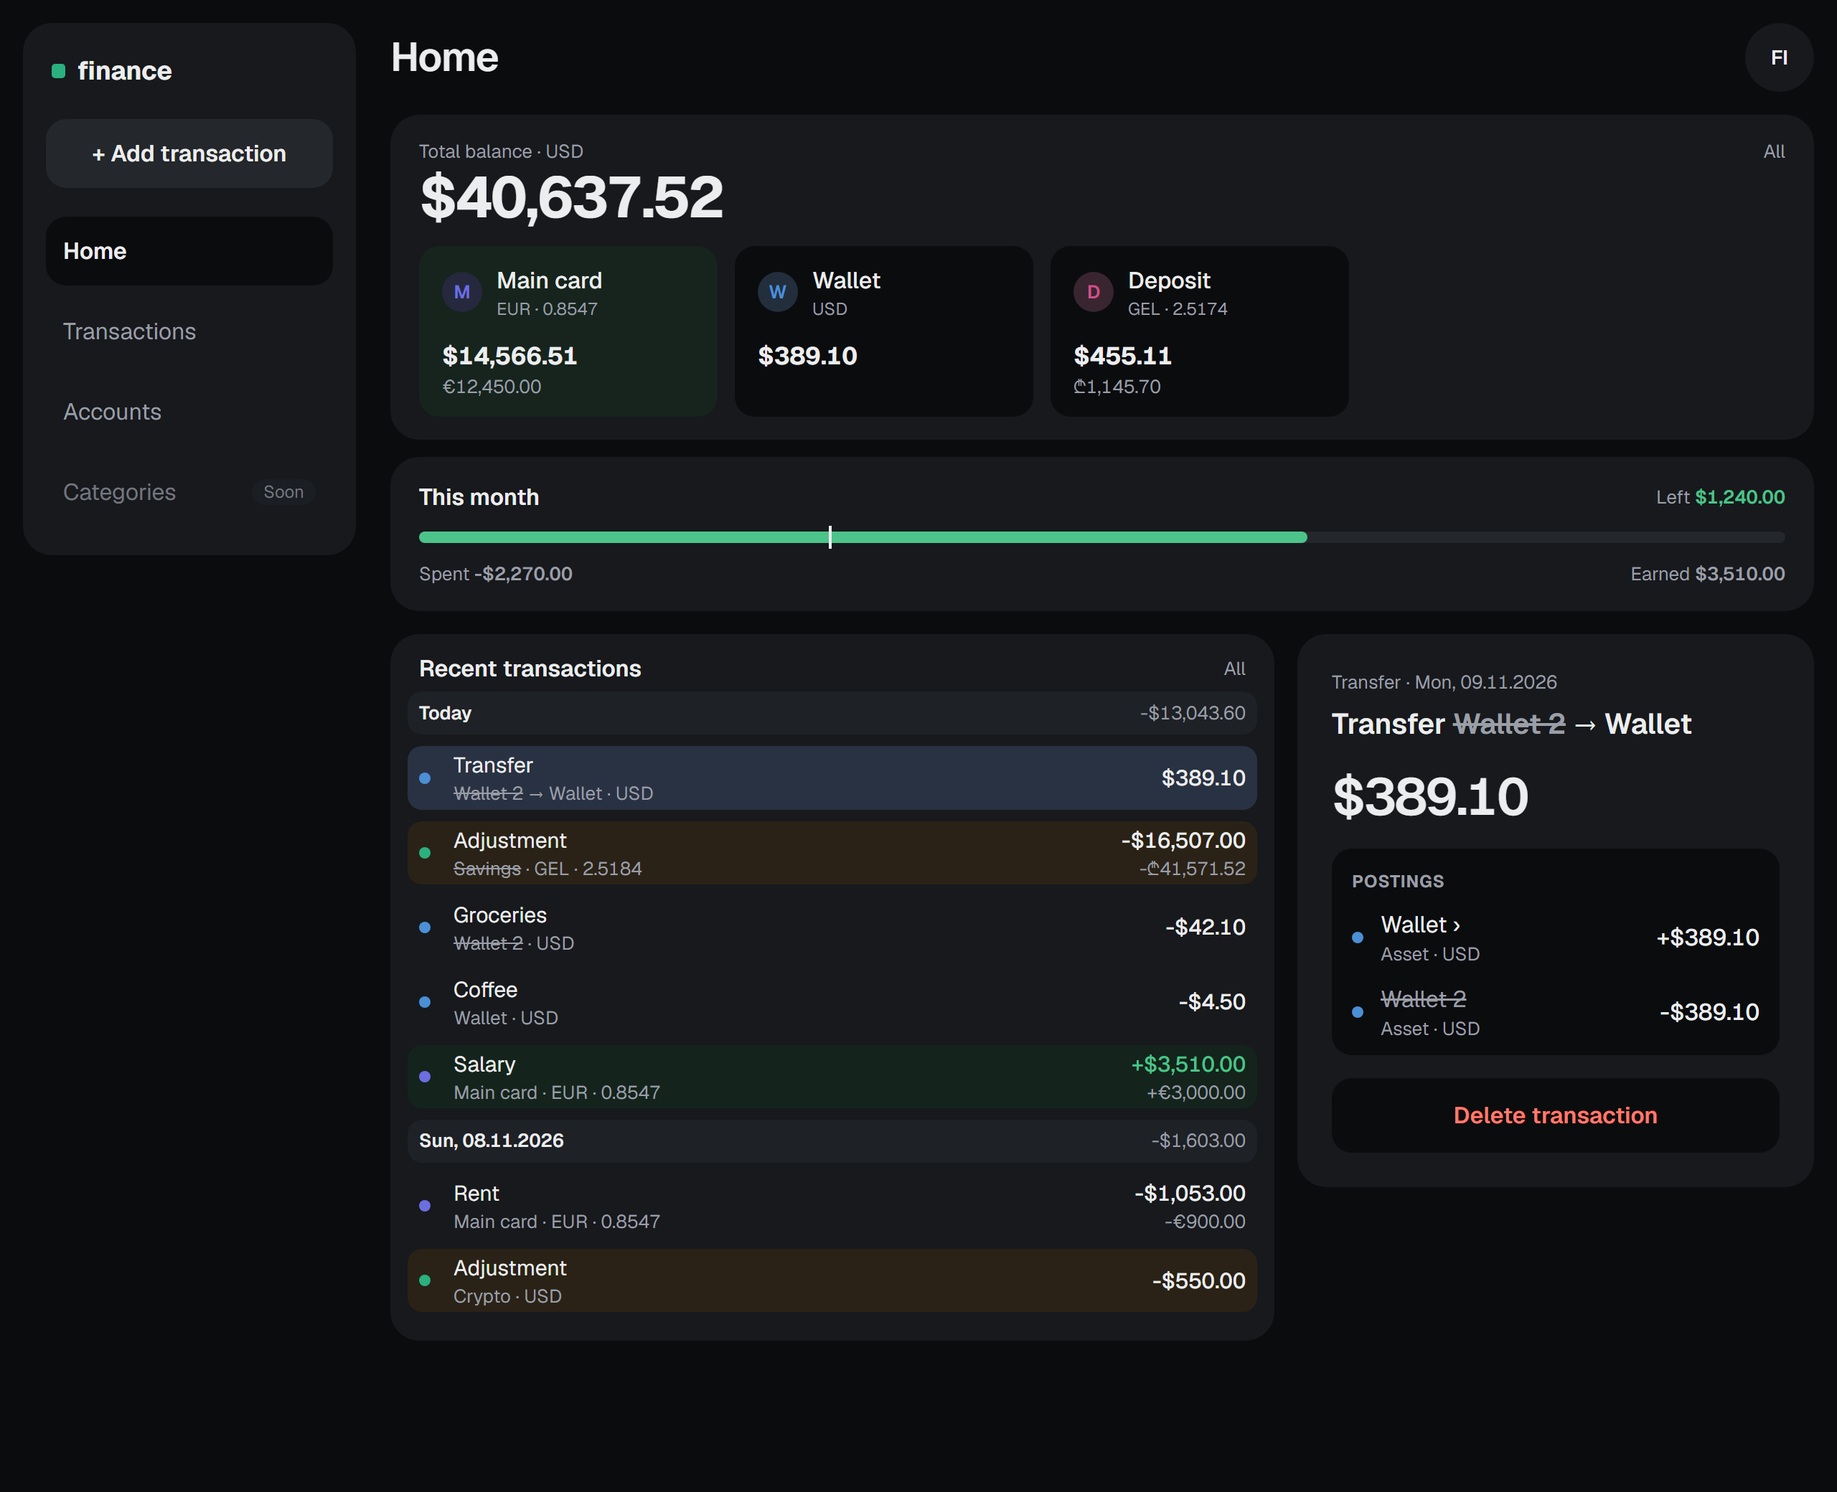
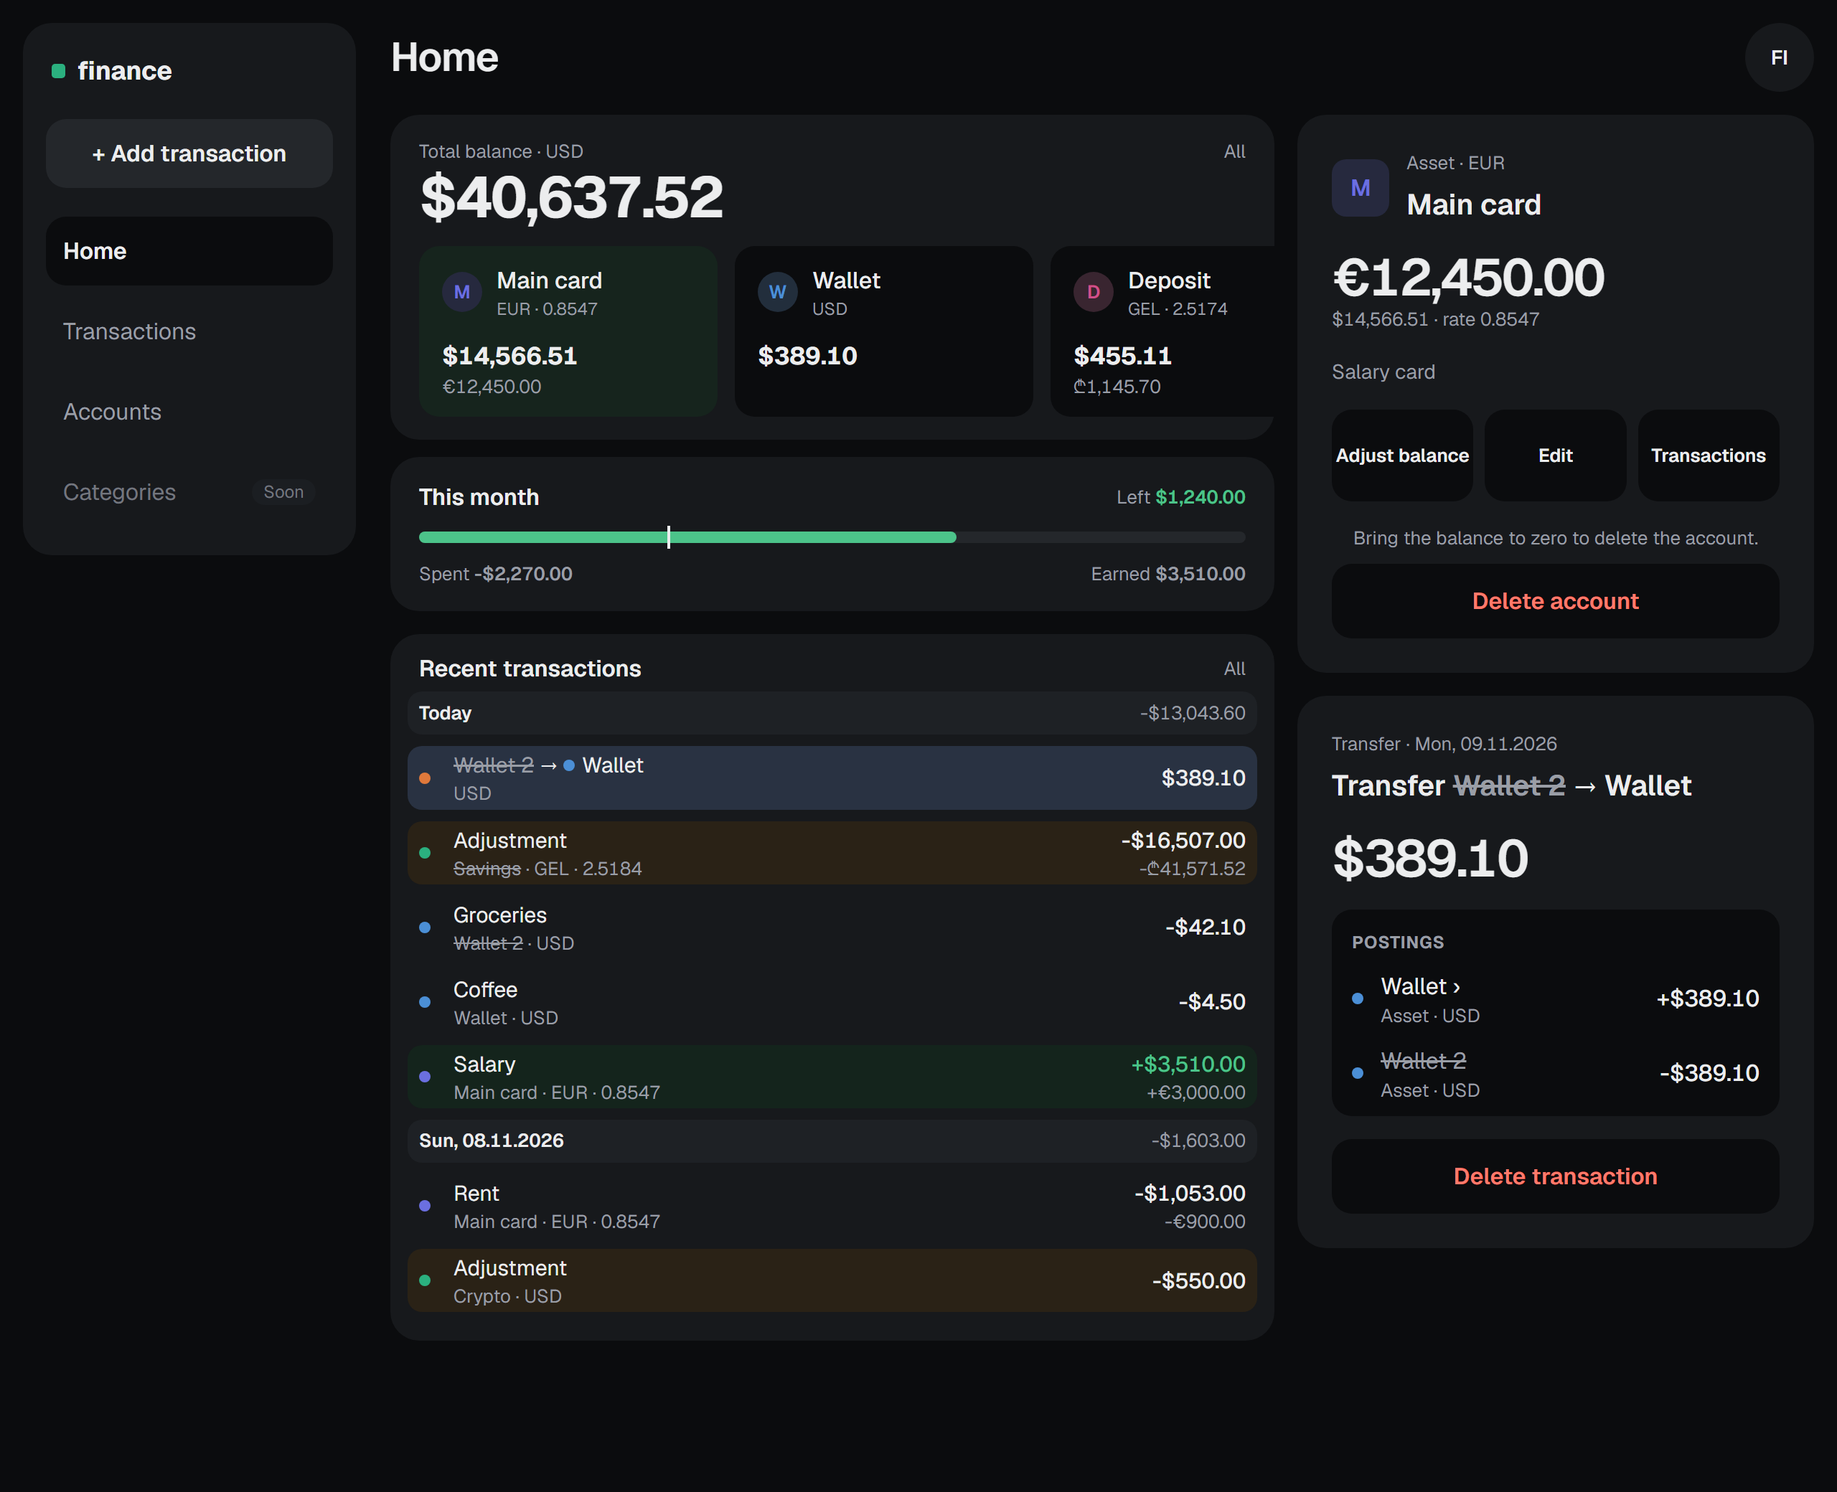
Mockups of #370: the free-width desktop, the details column and the transfer rows
Claude-Session: https://claude.ai/code/session_01JqeZG5NEyzrTuRPRVE2pd3

diff --git a/370/design/screens.html b/370/design/screens.html
@@ -160,6 +160,9 @@ section > p.lead { margin: var(--space-1) 0 var(--space-4); color: var(--color-m
 .row.selected::before { background: color-mix(in oklab, var(--tint, var(--color-panel)), var(--color-ink) 10%); }
 .row.selected:not(.income):not(.transfer):not(.adjustment)::before { background: color-mix(in oklab, var(--color-panel), var(--color-ink) 10%); }
 .dot { width: var(--size-dot); height: var(--size-dot); border-radius: var(--radius-full); background: currentColor; align-self: center; }
+.dotStack { display: flex; flex-direction: column; gap: 0.1875rem; align-self: center; }
+.inlineDot { display: inline-block; width: var(--size-dot); height: var(--size-dot); margin-right: 0.3125rem; border-radius: var(--radius-full); background: currentColor; vertical-align: 0.0625rem; }
+.ringDot { box-shadow: 0 0 0 0.125rem var(--color-transfer-row), 0 0 0 0.25rem var(--ring); }
 .text { min-width: 0; display: flex; flex-direction: column; }
 .title, .sub { overflow: hidden; text-overflow: ellipsis; white-space: nowrap; }
 .sub { font-size: var(--font-size-2xs); color: var(--color-muted); line-height: 1.35; }
@@ -254,7 +257,10 @@ section > p.lead { margin: var(--space-1) 0 var(--space-4); color: var(--color-m
 .desc { margin: 0; font-size: var(--font-size-md); color: var(--color-muted); }
 .tiles { display: grid; grid-template-columns: repeat(3, 1fr); gap: var(--space-2); }
 .tiles span { min-height: 4rem; border-radius: var(--radius-action); background: var(--color-ground); display: grid; place-items: center; font-size: var(--font-size-sm); font-weight: 600; text-align: center; }
-.hint { font-size: var(--font-size-sm); color: var(--color-muted); text-align: center; margin-top: calc(var(--space-2) * -1); }
+.hint { font-size: var(--font-size-sm); color: var(--color-muted); text-align: center; margin-top: auto; margin-bottom: calc(var(--space-2) * -1); }
+.details > .del:last-child { margin-top: auto; }
+.details > .hint + .del { margin-top: 0; }
+.detailsRow { align-items: stretch; }
 .homeTop { display: flex; flex-direction: column; gap: var(--space-3); margin-top: var(--space-4); }
 .homeTop .panel { padding: var(--space-4) var(--space-5); }
 .phone .total { font-size: 2rem; }
@@ -276,6 +282,16 @@ section > p.lead { margin: var(--space-1) 0 var(--space-4); color: var(--color-m
 .bar em { position: absolute; left: 30%; top: -0.25rem; bottom: -0.25rem; width: 2px; background: var(--color-ink); }
 .desktop .panel.recent { padding-top: var(--space-3); }
 .panelTitle { font-size: var(--font-size-lg); }
+.wideDesktop { width: 1600px; height: 920px; }
+.main.centered > * { width: 100%; max-width: 75rem; margin-inline: auto; }
+.detailsRow { flex: none; display: flex; gap: var(--space-4); align-self: flex-start; }
+.detailsRow .details { flex: 0 0 var(--size-details); }
+.detailsColumn { flex: 0 0 var(--size-details); display: flex; flex-direction: column; gap: var(--space-4); }
+.detailsColumn .details { flex: none; }
+.homeColumns { display: flex; gap: var(--space-4); align-items: flex-start; margin-top: var(--space-4); }
+.homeMain { flex: 1 1 auto; min-width: 0; display: flex; flex-direction: column; }
+.homeMain .homeTop { margin-top: 0; }
+.aHead .close { margin-left: auto; align-self: flex-start; }
 .notes { margin: 0; padding-left: var(--space-5); color: var(--color-muted); font-size: var(--font-size-sm); display: flex; flex-direction: column; gap: var(--space-1); max-width: 52rem; }
 .notes b { color: var(--color-ink); font-weight: 600; }
 </style>
@@ -301,19 +317,25 @@ section > p.lead { margin: var(--space-1) 0 var(--space-4); color: var(--color-m
 
   <section>
     <h2>2 · Transactions on desktop (1280 px)</h2>
-    <p class="lead">Agreed: 2A, with the details always open. Rows as on the phone, at desktop sizes.</p>
+    <p class="lead">Agreed: the list takes the free width and the details always show on the right, the account opened from a posting under the transaction.</p>
     <div class="boards" id="txDesktopBoards"></div>
   </section>
 
   <section>
     <h2>3 · Accounts on desktop (1280 px)</h2>
-    <p class="lead">Agreed: 3A, with the details always open. Currency and rate move under the name, as on the phone; the Rate column goes and the two balances stack (USD over the account's own).</p>
+    <p class="lead">Agreed: the groups take the free width, with the details always open. Currency and rate move under the name, as on the phone; the Rate column goes and the two balances stack (USD over the account's own).</p>
     <div class="boards" id="accDesktopBoards"></div>
   </section>
 
   <section>
+    <h2>2B · Transactions in a wide window (1600 px)</h2>
+    <p class="lead">Agreed: the details in a row of equal height when the list keeps at least 34rem.</p>
+    <div class="boards" id="rowBoards"></div>
+  </section>
+
+  <section>
     <h2>4 · Home</h2>
-    <p class="lead">Agreed: 4B. Recent shares the rows of the Transactions list; on desktop it keeps a reading width with the top transaction's details beside it.</p>
+    <p class="lead">Agreed: Recent shares the rows of the Transactions list; on desktop the column on the right shows the chosen account, or the first one of the strip, above the chosen or top transaction; neither closes on desktop.</p>
     <div class="boards" id="homeBoards"></div>
   </section>
 
@@ -340,7 +362,7 @@ section > p.lead { margin: var(--space-1) 0 var(--space-4); color: var(--color-m
 
   const days = [
     { label: 'Today', total: -13043.60, rows: [
-      { type: 'transfer', title: 'Transfer', accounts: [{ name: 'Wallet 2', deleted: true }, { name: 'Wallet' }], color: COLORS.blue, currency: 'USD', orig: 389.10, base: 389.10, sign: 'auto', location: null, comment: null, selected: true },
+      { type: 'transfer', title: 'Transfer', accounts: [{ name: 'Wallet 2', deleted: true, color: COLORS.orange }, { name: 'Wallet', color: COLORS.blue }], color: COLORS.blue, currency: 'USD', orig: 389.10, base: 389.10, sign: 'auto', location: null, comment: null, selected: true },
       { type: 'adjustment', title: 'Adjustment', accounts: [{ name: 'Savings', deleted: true }], color: COLORS.green, currency: 'GEL', rate: 2.5184, orig: -41571.52, base: -16507.00, location: null, comment: 'Bank statement' },
       { type: 'expense', title: 'Groceries', accounts: [{ name: 'Wallet 2', deleted: true }], color: COLORS.blue, currency: 'USD', orig: -42.10, base: -42.10, location: 'Spar', comment: null },
       { type: 'expense', title: 'Coffee', accounts: [{ name: 'Wallet' }], color: COLORS.blue, currency: 'USD', orig: -4.50, base: -4.50, location: 'Coffee Lab', comment: 'With Anna' },
@@ -354,16 +376,32 @@ section > p.lead { margin: var(--space-1) 0 var(--space-4); color: var(--color-m
 
   const accountsText = (row) => row.accounts.map(name).join(' → ');
   const isForeign = (row) => row.currency !== BASE;
-  const subLine = (row) => [accountsText(row), row.currency, isForeign(row) ? rate(row.rate) : null].filter(Boolean).join(' · ');
+  const isTransfer = (row) => row.type === 'transfer';
+  const subLine = (row) => [isTransfer(row) ? null : accountsText(row), row.currency, isForeign(row) ? rate(row.rate) : null].filter(Boolean).join(' · ');
+  const titleWithDots = (row) => row.accounts.map((account) => `<span class="inlineDot" style="color:${account.color}"></span>${name(account)}`).join(' → ');
+  const stackedDots = (row) => `<span class="dotStack">${row.accounts.map((account) => `<span class="dot" style="color:${account.color}"></span>`).join('')}</span>`;
+  const dotModes = {
+    stacked: (row) => stackedDots(row),
+    inTitle: () => '<span></span>',
+    fromInColumn: (row) => `<span class="dot" style="color:${row.accounts[0].color}"></span>`,
+    split: (row) => `<span class="dot" style="background:linear-gradient(90deg, ${row.accounts[0].color} 50%, ${row.accounts[1].color} 50%)"></span>`,
+    ring: (row) => `<span class="dot ringDot" style="color:${row.accounts[1].color};--ring:${row.accounts[0].color}"></span>`,
+  };
+  let dotMode = 'fromInColumn';
+  const titleWithToDot = (row) => `${name(row.accounts[0])} → <span class="inlineDot" style="color:${row.accounts[1].color}"></span>${name(row.accounts[1])}`;
+  const titleOf = (row) => !isTransfer(row) ? row.title
+    : dotMode === 'inTitle' ? titleWithDots(row)
+    : dotMode === 'fromInColumn' ? titleWithToDot(row)
+    : accountsText(row);
   const baseAmount = (row) => `<span class="amount${row.type === 'income' ? ' in' : ''}">${money(row.base, BASE, row.sign)}</span>`;
   const origAmount = (row) => isForeign(row) ? `<span class="orig">${money(row.orig, row.currency, row.sign)}</span>` : '';
   const rowClass = (row) => `row ${row.type}${row.selected ? ' selected' : ''}`;
-  const dot = (row) => `<span class="dot" style="color:${row.color}"></span>`;
+  const dot = (row) => isTransfer(row) ? dotModes[dotMode](row) : `<span class="dot" style="color:${row.color}"></span>`;
   const text = (title, sub) => `<span class="text"><span class="title">${title}</span><span class="sub">${sub}</span></span>`;
   const dayHead = (day) => `<div class="dayHead"><b>${day.label}</b><span>${money(day.total, BASE)}</span></div>`;
 
   const rowRenderers = {
-    stacked: (row) => `<div class="${rowClass(row)}">${dot(row)}${text(row.title, subLine(row))}<span class="amounts">${baseAmount(row)}${origAmount(row)}</span></div>`,
+    stacked: (row) => `<div class="${rowClass(row)}">${dot(row)}${text(titleOf(row), subLine(row))}<span class="amounts">${baseAmount(row)}${origAmount(row)}</span></div>`,
   };
 
   const txList = ({ listClass, header, render }) =>
@@ -407,8 +445,8 @@ section > p.lead { margin: var(--space-1) 0 var(--space-4); color: var(--color-m
       </div>
     </div>`;
 
-  const variant = ({ id, name, note, board, wide }) =>
-    `<div class="variant${wide ? ' wide' : ''}" id="${id}"><div class="variantHead"><b>${name}</b><span>${note}</span></div><div class="frame" data-board-width="${wide ? 1280 : 390}">${board}</div></div>`;
+  const variant = ({ id, name, note, board, wide, boardWidth }) =>
+    `<div class="variant${wide ? ' wide' : ''}" id="${id}"><div class="variantHead"><b>${name}</b><span>${note}</span></div><div class="frame" data-board-width="${boardWidth ?? (wide ? 1280 : 390)}">${board}</div></div>`;
 
   document.getElementById('phoneBoards').innerHTML = [
     variant({ id: 'transactions-phone', name: '1A · Under the USD amount', note: 'Right side: the USD amount, the account\'s amount under it. One column of amounts, no column header.',
@@ -416,11 +454,6 @@ section > p.lead { margin: var(--space-1) 0 var(--space-4); color: var(--color-m
   ].join('');
 
   const txToolbar = chipsHtml;
-  document.getElementById('txDesktopBoards').innerHTML = [
-    variant({ id: 'transactions-desktop', wide: true, name: '2A · Narrow list, details always open', note: 'The list keeps a reading width (42rem) on the left; the details always show beside it. With no transaction chosen, the top one opens; desktop drops the × since there is nothing to close to.',
-      board: desktopBoard({ active: 'Transactions', title: 'Transactions', count: '-$14,646.60', toolbar: txToolbar,
-        content: `<div class="panel narrow">${txList({ listClass: 'stack', render: rowRenderers.stacked })}</div>${transactionDetails}` }) }),
-  ].join('');
 
   const RATES = { USD: 1, EUR: 0.8547, GEL: 2.5174 };
   const groups = [
@@ -458,15 +491,10 @@ section > p.lead { margin: var(--space-1) 0 var(--space-4); color: var(--color-m
       <div><div class="big">${money(mainCard.balance, 'EUR', 'auto')}</div><div class="meta">${money(inBase(mainCard), BASE, 'auto')} · rate ${rate(RATES.EUR)}</div></div>
       <p class="desc">Salary card</p>
       <div class="tiles"><span>Adjust balance</span><span>Edit</span><span>Transactions</span></div>
-      <div class="del">Delete account</div>
       <div class="hint">Bring the balance to zero to delete the account.</div>
+      <div class="del">Delete account</div>
     </aside>`;
 
-  document.getElementById('accDesktopBoards').innerHTML = [
-    variant({ id: 'accounts-desktop', wide: true, name: '3A · Narrow list, details always open', note: 'Rows as on the phone. The account details always show beside the list; with no account chosen, the top one opens.',
-      board: desktopBoard({ active: 'Accounts', title: 'Accounts', count: '9', toolbar: accToolbar,
-        content: `<div class="panel narrow">${accList({ listClass: 'stack', header: '<div class="colHead"><span>Account</span><span class="r">In USD</span></div>', render: accountRenderers.stacked })}</div>${accountDetails}` }) }),
-  ].join('');
 
   const homeCards = [mainCard, groups[0].accounts[1], groups[0].accounts[3]].map((account) => `
     <div class="card${account === mainCard ? ' on' : ''}"><div class="cardHead">${mark(account)}<div class="text"><span class="title">${account.name}</span><span class="sub">${accountSub(account)}</span></div></div>
@@ -482,8 +510,7 @@ section > p.lead { margin: var(--space-1) 0 var(--space-4); color: var(--color-m
       ${sidebar('Home')}
       <div class="main">
         <div class="topRow"><h3 class="pageTitle">Home</h3><span class="avatar">FI</span></div>
-        ${homeTop}
-        <div class="content">${bottom}</div>
+        ${bottom}
       </div>
     </div>`;
   const homePhoneBoard = `
@@ -493,10 +520,34 @@ section > p.lead { margin: var(--space-1) 0 var(--space-4); color: var(--color-m
       <div class="panel"><div class="balHead"><b>This month</b><span class="meta">Left <b class="ok">$1,240.00</b></span></div><div class="bar"><i></i><em></em></div><div class="balHead"><span class="meta">Spent <b>-$2,270.00</b></span><span class="meta">Earned <b>$3,510.00</b></span></div></div>
       <div class="panel"><div class="balHead"><b class="panelTitle">Recent transactions</b><span class="meta">All</span></div>${txList({ listClass: 'stack', render: rowRenderers.stacked }).replaceAll(' selected', '')}</div>
     </div>`;
+
+
+  const wallet = groups[0].accounts[1];
+  const walletDetails = `
+    <aside class="details">
+      <div class="aHead"><span class="mark big" style="--c:${wallet.color}">W</span><div><div class="meta">Asset · USD</div><h4 class="dTitle">Wallet</h4></div></div>
+      <div><div class="big">${money(wallet.balance, 'USD', 'auto')}</div></div>
+      <div class="tiles"><span>Adjust balance</span><span>Edit</span><span>Transactions</span></div>
+      <div class="hint">Bring the balance to zero to delete the account.</div>
+      <div class="del">Delete account</div>
+    </aside>`;
+
+  const detailsColumnOf = (panels) => `<div class="detailsColumn">${panels.join('')}</div>`;
+  document.getElementById('txDesktopBoards').innerHTML = variant({ id: 'transactions-desktop', wide: true, name: 'Transactions', note: 'The list takes the free width; the details column on the right shows the chosen or top transaction and, under it, its first money account or the account opened from a posting; neither closes on desktop.',
+    board: desktopBoard({ active: 'Transactions', title: 'Transactions', count: '-$14,646.60', toolbar: txToolbar,
+      content: `<div class="panel">${txList({ listClass: 'stack', render: rowRenderers.stacked })}</div>${detailsColumnOf([transactionDetails, walletDetails])}` }) });
+  document.getElementById('accDesktopBoards').innerHTML = variant({ id: 'accounts-desktop', wide: true, name: 'Accounts', note: 'The groups take the free width; the details of the chosen or top account show on the right.',
+    board: desktopBoard({ active: 'Accounts', title: 'Accounts', count: '9', toolbar: accToolbar,
+      content: `<div class="panel">${accList({ listClass: 'stack', header: '<div class="colHead"><span>Account</span><span class="r">In USD</span></div>', render: accountRenderers.stacked })}</div>${accountDetails}` }) });
+  const rowBoard = ({ width }) => desktopBoard({ active: 'Transactions', title: 'Transactions', count: '-$14,646.60', toolbar: txToolbar,
+    content: `<div class="panel">${txList({ listClass: 'stack', render: rowRenderers.stacked })}</div><div class="detailsRow">${transactionDetails}${walletDetails}</div>` }).replace('class="board desktop"', `class="board desktop" style="width: ${width}px"`);
+  document.getElementById('rowBoards').innerHTML = [
+    variant({ id: 'transactions-wide', wide: true, boardWidth: 1600, name: 'Transactions in a wide window', note: 'Once the list keeps at least 34rem beside them, the transaction and its account stand in a row, both as tall as the taller one with their delete actions on one level; narrower windows stack them.', board: rowBoard({ width: 1600 }) }),
+  ].join('');
   document.getElementById('homeBoards').innerHTML = [
     variant({ id: 'home-phone', name: 'Home on a phone', note: 'Recent with the two-line rows; nothing opens until a row is tapped.', board: homePhoneBoard }),
-    variant({ id: 'home-desktop', wide: true, name: '4B · Recent narrow, details always open', note: 'As on Transactions: Recent keeps a reading width and the details of the top transaction show beside it until another is chosen.',
-      board: homeBoard(`${recentPanel('narrow')}${transactionDetails}`) }),
+    variant({ id: 'home-desktop', wide: true, name: 'Home on desktop', note: 'The summaries and Recent take the free width; the column on the right shows a chosen account above the chosen or top transaction.',
+      board: homeBoard(`<div class="homeColumns"><div class="homeMain">${homeTop}<div class="content">${recentPanel('')}</div></div>${detailsColumnOf([accountDetails, transactionDetails])}</div>`) }),
   ].join('');
 
   const params = new URLSearchParams(location.search);
